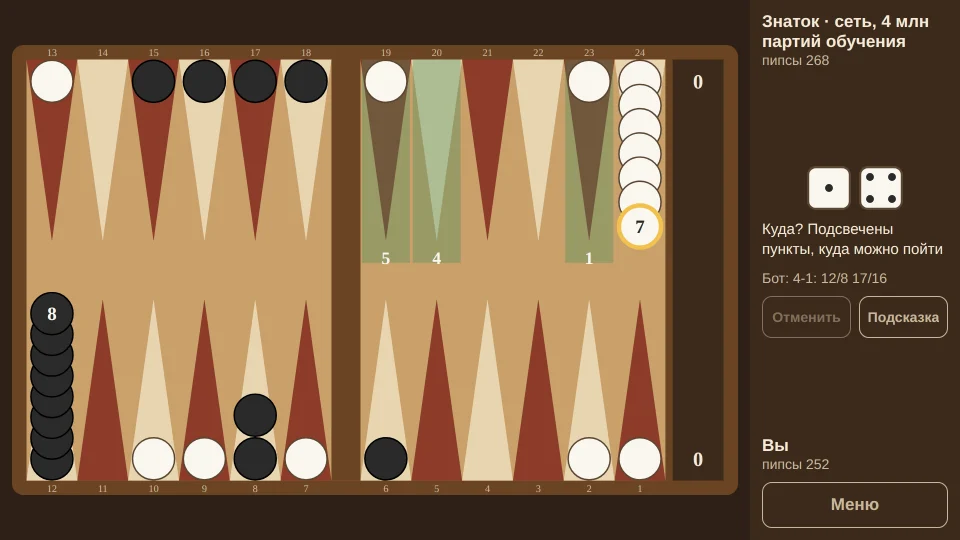
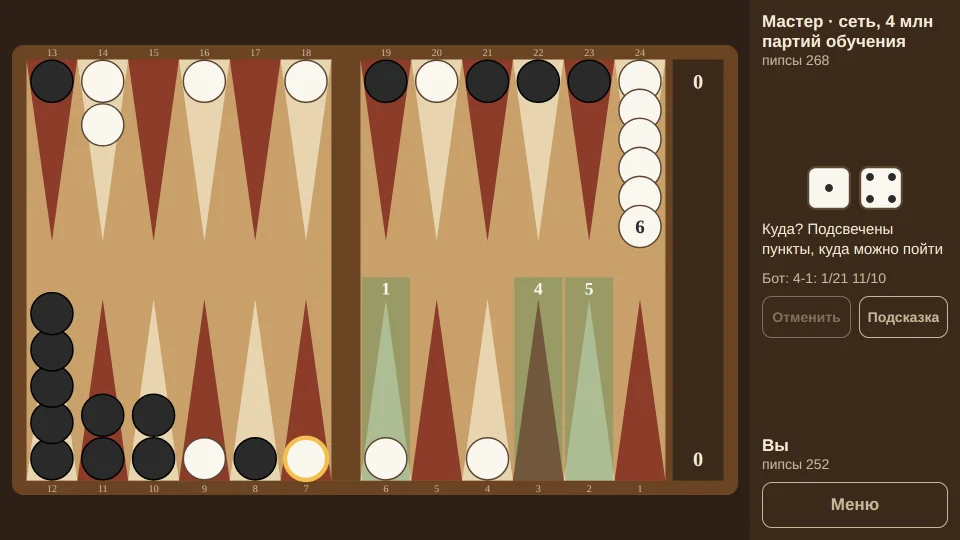
«Длинные нарды»: снимки и текст — четыре уровня бота
Снимки пересняты в nardy (Б2: Новичок, Любитель, Знаток, Мастер);
подпись первого снимка и описание уровней — под новую лестницу.

Claude-Session: https://claude.ai/code/session_01GsDiCsxRPkmLEwCy7VUzrw

diff --git a/src/nardy/index.html b/src/nardy/index.html
@@ -35,7 +35,7 @@
     -->
 
     <section class="shots shots-wide" aria-label="Снимки экрана">
-      <figure><img src="/assets/games/nardy-01-game.webp" width="960" height="540" alt="Партия со Знатоком: выбрана шашка, подсвечены пункты, куда она может пойти"><figcaption>Партия с ботом</figcaption></figure>
+      <figure><img src="/assets/games/nardy-01-game.webp" width="960" height="540" alt="Партия с Мастером: выбрана шашка, подсвечены пункты, куда она может пойти"><figcaption>Партия с ботом</figcaption></figure>
       <figure><img src="/assets/games/nardy-02-why.webp" width="960" height="540" alt="Запрещённый ход: игра объясняет, что пункт занят соперником" loading="lazy"><figcaption>Почему нельзя</figcaption></figure>
       <figure><img src="/assets/games/nardy-03-hint.webp" width="960" height="540" alt="Подсказка: лучший ход подсвечен на доске по порядку" loading="lazy"><figcaption>Подсказка</figcaption></figure>
       <figure><img src="/assets/games/nardy-04-bots.webp" width="960" height="540" alt="Выбор соперника: уровни бота и ваш счёт против каждого" loading="lazy"><figcaption>Уровни бота</figcaption></figure>
@@ -62,7 +62,7 @@
 
       <h2>Сильный бот и разбор</h2>
       <ul>
-        <li>Четыре уровня: Новичок, Любитель, Знаток и Мастер. Знаток и Мастер — нейросеть, которая научилась играть на миллионах партий против самой себя.</li>
+        <li>Четыре уровня: Новичок, Любитель, Знаток и Мастер. Любитель, Знаток и Мастер — нейросеть, которая научилась играть на миллионах партий против самой себя; чем выше уровень, тем реже она позволяет себе ход похуже.</li>
         <li>Против бота можно вернуть ход и попросить подсказку. Учиться не стыдно — такая партия просто не идёт в счёт.</li>
         <li>Разбор партии: где был лучший ход и сколько стоила ошибка. Удача: видно, проиграли вы кубикам или себе.</li>
       </ul>

diff --git a/src/en/nardy/index.html b/src/en/nardy/index.html
@@ -52,7 +52,7 @@
       <p>Never during a game, no banners, at most every other game, and none at all in your first games. One purchase removes them for good.</p>
 
       <h2>A strong bot</h2>
-      <p>Four levels, from Beginner to Master; the top ones are a neural network trained on millions of games against itself. Against the bot you can take back a move or ask for a hint — such a game simply doesn't count towards your score.</p>
+      <p>Four levels, from Beginner to Master; the upper three are one neural network trained on millions of games against itself — the higher the level, the less often it allows itself a weaker move. Against the bot you can take back a move or ask for a hint — such a game simply doesn't count towards your score.</p>
 
       <h2>Questions</h2>
       <p>Email: <span class="mail-address" style="font-size: inherit">hello@gornitsa.games</span>.</p>
